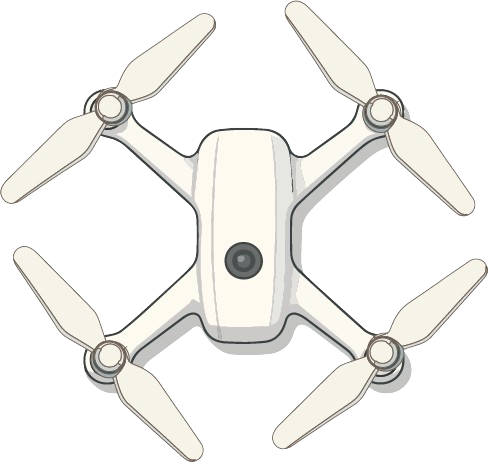
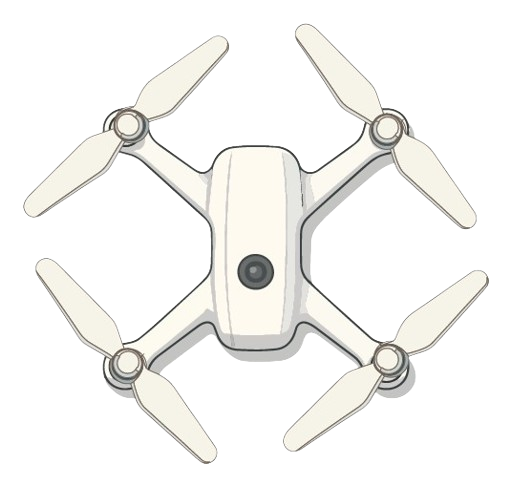
Added animation to drone

diff --git a/src/visualization/assets_manager.py b/src/visualization/assets_manager.py
@@ -18,7 +18,10 @@ class AssetsManager:
         self.hub_diameter = hub_diameter
 
         self.background = None
-        self.drone = None
+        self.drone1 = None
+        self.drone2 = None
+        self.drone3 = None
+        self.drone4 = None
         self.hub_sprites = {}
         self.star = None
         self.forbidden = None
@@ -85,7 +88,13 @@ class AssetsManager:
         )
 
         drone_raw = pygame.image.load("assets/drone1.png").convert_alpha()
-        self.drone = pygame.transform.smoothscale(drone_raw, (500, 500))
+        self.drone1 = pygame.transform.smoothscale(drone_raw, (500, 500))
+        drone2_raw = pygame.image.load("assets/drone2.png").convert_alpha()
+        self.drone2 = pygame.transform.smoothscale(drone2_raw, (500, 500))
+        drone3_raw = pygame.image.load("assets/drone3.png").convert_alpha()
+        self.drone3 = pygame.transform.smoothscale(drone3_raw, (500, 500))
+        drone4_raw = pygame.image.load("assets/drone4.png").convert_alpha()
+        self.drone4 = pygame.transform.smoothscale(drone4_raw, (500, 500))
 
         hub_raw = pygame.image.load("assets/hub.png").convert_alpha()
         hub_scaled = self._scale_with_aspect_ratio(hub_raw, self.hub_diameter)
@@ -126,17 +135,18 @@ class AssetsManager:
         """Returns the background image."""
         return self.background if self.background else pygame.Surface((self.window_width, self.window_height))
 
-    def get_drone(self) -> pygame.Surface:
-        """Returns the drone image."""
-        if self.drone:
-            return self.drone
+    def get_drone(self, frame: int = 0) -> pygame.Surface:
+        """Returns the drone image for the given frame (0-3)."""
+        drones = [self.drone1, self.drone2, self.drone3, self.drone4]
+        drone = drones[frame % 4]
+        
+        if drone:
+            return drone
 
         radius = 10
         diameter = radius * 2
-
         error_control_surface = pygame.Surface((diameter, diameter), pygame.SRCALPHA)
         pygame.draw.circle(error_control_surface, (255, 255, 255), (radius, radius), radius)
-
         return error_control_surface
 
     def get_hub_sprite(self, color: str) -> pygame.Surface:

diff --git a/src/visualization/visual_simulation.py b/src/visualization/visual_simulation.py
@@ -28,6 +28,9 @@ class VisualSimulation:
         self.animation_progress = 0.0
         self.turn_duration_ms = 1000
         self.simulation_ended_printed = False
+        self.drone_frame = 0
+        self.drone_frame_timer = 0.0
+        self.drone_frame_duration = 40
 
     def run(self) -> None:
         """Main loop for visual simulation."""
@@ -45,7 +48,6 @@ class VisualSimulation:
 
         assets = AssetsManager(width, height, int(radius * 2))
         background = assets.get_background()
-        drone_sprite = assets.get_drone()
         hub_sprites = assets.get_all_hub_sprites()
 
         font = pygame.font.Font(None, 52)
@@ -72,11 +74,16 @@ class VisualSimulation:
                 self._print_turn_output()
                 self._advance_turn()
 
+            self.drone_frame_timer += delta_ms
+            if self.drone_frame_timer >= self.drone_frame_duration:
+                self.drone_frame = (self.drone_frame + 1) % 4
+                self.drone_frame_timer = 0.0
+
             window.blit(background, (0, 0))
 
             self._draw_connections(window, transformer, radius)
             self._draw_hubs(window, transformer, hub_sprites, assets)
-            self._draw_drones(window, transformer, drone_sprite, radius)
+            self._draw_drones(window, transformer, assets, radius)
             self._draw_ui(window, font, small_font, width, height)
 
             pygame.display.flip()
@@ -222,10 +229,12 @@ class VisualSimulation:
         self,
         window: pygame.Surface,
         transformer: CoordTransformer,
-        drone_sprite: pygame.Surface,
+        assets: AssetsManager,
         radius: int,
     ) -> None:
         """Draw all drones at their current positions."""
+        drone_sprite = assets.get_drone(self.drone_frame)
+
         for drone_id, drone in self.drones.items():
             if drone.delivered and len(drone.path) > 0:
                 last_turn = drone.path[-1][0]
